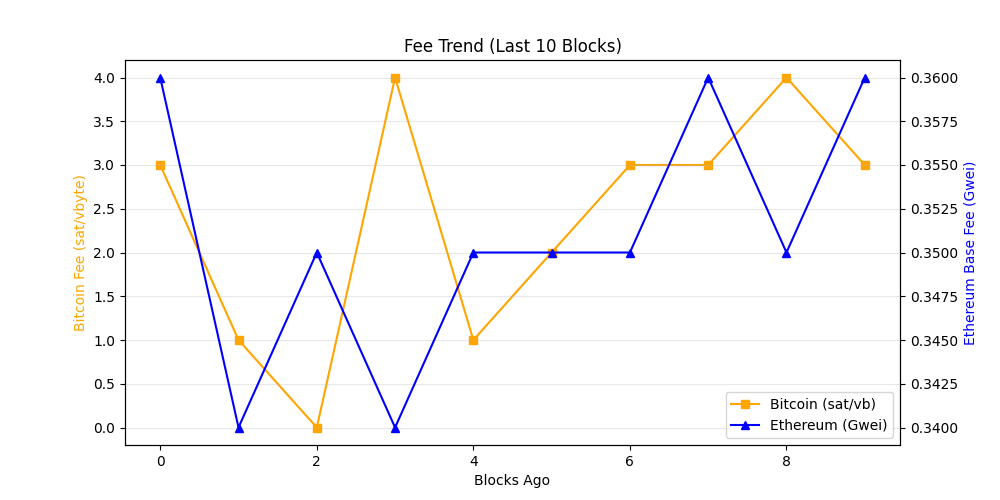
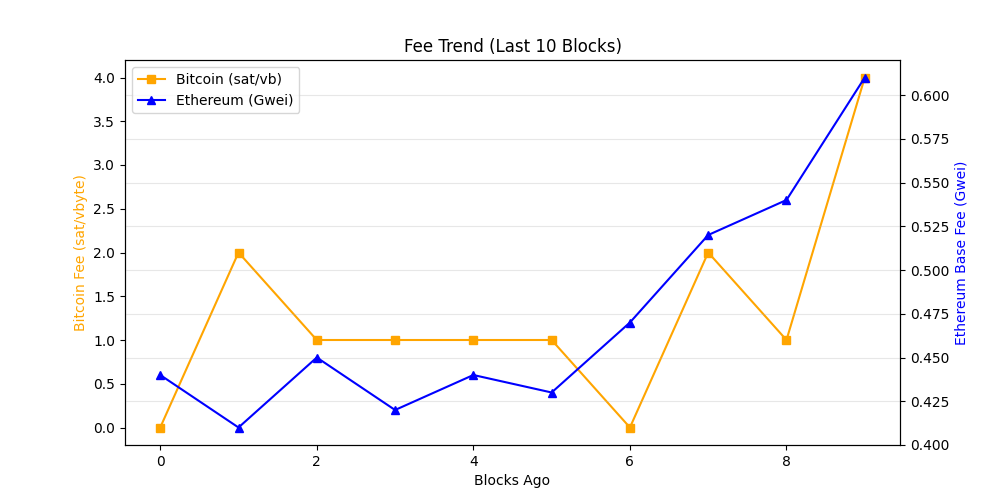
chore: update on-chain dashboard

diff --git a/README.md b/README.md
@@ -19,7 +19,7 @@ The README itself acts as the dashboard and is regenerated automatically on a 6 
 demonstrating a production-style, infrastructure-focused observability workflow rather
 than a traditional UI-driven approach.
 
-_Last updated: 2026-06-08 16:17 UTC_
+_Last updated: 2026-06-08 20:32 UTC_
 
 ## API Usage (GetBlock.io)
 - Calls used: **24**
@@ -27,8 +27,8 @@ _Last updated: 2026-06-08 16:17 UTC_
 ## Network Metrics
 | Chain | Block Height | TX Count | TPS (10 blk avg) | Block Util | Avg Fee |
 |------|-------------|----------|------------------|------------|---------|
-| Ethereum | 25273839 | 187 | 15.58 | 32.04% | 0.4 Gwei |
-| Bitcoin | 952866 | 3768 | 10.58 | 99.79% | N/A |
+| Ethereum | 25275105 | 78 | 6.5 | 14.89% | 0.6 Gwei |
+| Bitcoin | 952893 | 4472 | 2.3 | 99.79% | N/A |
 
 ## Visuals
 ### Transactions Trend
@@ -43,11 +43,11 @@ _Last updated: 2026-06-08 16:17 UTC_
 ## Whale Alerts (latest block)
 - Transaction hashes are truncated for readability.
 - Full hashes are available in `dashboards/metrics.json`
-- Bitcoin | 235.08 BTC | `577188e40bf8…`
-- Bitcoin | 154.82 BTC | `a37c4fd6055d…`
-- Bitcoin | 351.7 BTC | `d65fa1b574e7…`
-- Bitcoin | 343.78 BTC | `f808a9211c8b…`
-- Bitcoin | 703.33 BTC | `14980d91cf3c…`
+- Bitcoin | 370.57 BTC | `7682592d056c…`
+- Bitcoin | 1423.06 BTC | `7e29742dfd69…`
+- Bitcoin | 231.4 BTC | `3e53643f3685…`
+- Bitcoin | 240.07 BTC | `979990a19e6e…`
+- Bitcoin | 299.26 BTC | `df06dce89956…`
 
 ## Run locally
 
